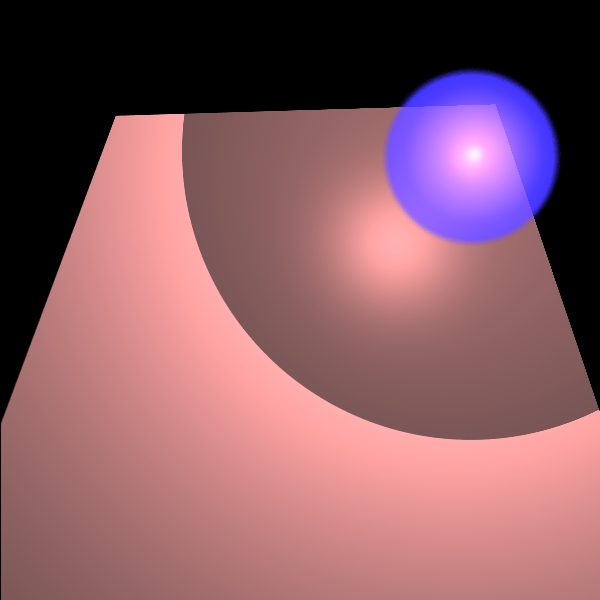
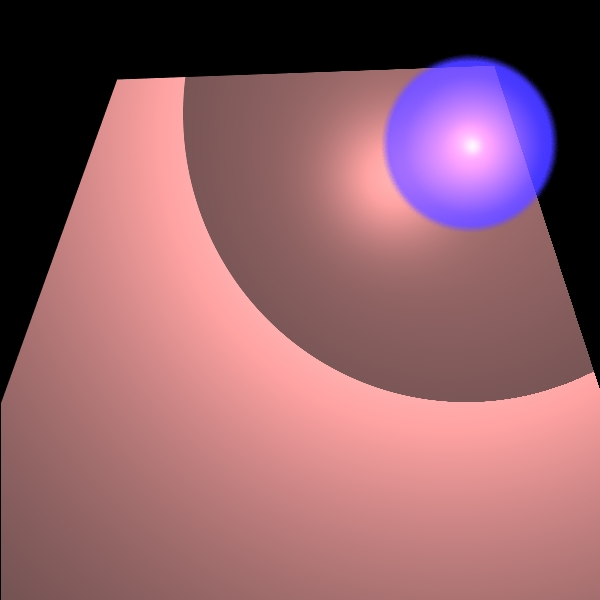
start stage 8 start scene

Changed region(s): [[0.0, 0.09, 1.0, 0.75]]

diff --git a/UnitTests/UnitTests/DepthOfFieldTest.java b/UnitTests/UnitTests/DepthOfFieldTest.java
@@ -72,36 +72,66 @@ public class DepthOfFieldTest {
     @Test
     public void depthOfFieldFullImage() {
         Scene scene = new Scene("Test scene");
-        scene.setCamera(new Camera(new Point3D(0, -1000, -1000), new Vector(0, 1, 1), new Vector(0, -1, 1),
-                1050, 12, 9, false));
+        scene.setCamera(new Camera(new Point3D(0, -120, -1000), new Vector(0, 0.05, 1), new Vector(0, -1, 0.05),
+                7000, 8, 5, true));
         scene.setDistance(1000);
         scene.setBackground(Color.BLACK);
         scene.setAmbientLight(new AmbientLight(Color.BLACK, 0.15));
 
+        Plane myPlane =  new Plane(new Color(25,0,51), new Material(0.1, 0, 60,0,0.9),
+                new Point3D(0,50,0),new Vector(0,1,0));
+        Tube MyTube = new Tube(new Color(150,150,150), new Material(0.5, 0.5, 60,0,0),//
+                100,new Ray(new Point3D(0,-50,500000),new Vector(1,0,0)));
+
         Geometries table  = new Geometries(
                 //plate of the table
-                new Polygon(new Color(new Color(java.awt.Color.GREEN)), new Material(0.5, 0.5, 60,0.5,0), //
-                        new Point3D(-100,0,-100), new Point3D(100,0,-100), new Point3D(100,0,100),//
-                        new Point3D(-100,0,100)),
+                /*new Polygon(new Color(76,0,153), new Material(0.5, 0.5, 60,0,0), //
+                        new Point3D(-50,0,100), new Point3D(50,0,100), new Point3D(50,0,150),//
+                        new Point3D(-50,0,150)),*/
+                new Cylinder(new Color(153,76,0), new Material(0.5, 0.5, 60,0.5,0),//
+                        65,new Ray(new Point3D(0,0,175),new Vector(0,1,0)), 2),
 
                 //legs of the table
-                new Cylinder(new Color(new Color(java.awt.Color.GREEN)), new Material(0.5, 0.5, 60,0.5,0),//
-                        10,new Ray(new Point3D(80,0,-80),new Vector(0,1,0)), 50),
-                new Cylinder(new Color(new Color(java.awt.Color.GREEN)), new Material(0.5, 0.5, 60,0.5,0),//
-                        10,new Ray(new Point3D(-80,0,-80),new Vector(0,1,0)), 50),
-                new Cylinder(new Color(new Color(java.awt.Color.GREEN)), new Material(0.5, 0.5, 60,0.5,0),//
-                        10,new Ray(new Point3D(80,0,80),new Vector(0,1,0)), 50),
-                new Cylinder(new Color(new Color(java.awt.Color.GREEN)), new Material(0.5, 0.5, 60,0.5,0),//
-                        10,new Ray(new Point3D(-80,0,80),new Vector(0,1,0)), 50));
+                new Cylinder(new Color(153,76,0), new Material(0.5, 0.5, 60,0.5,0),//
+                        1,new Ray(new Point3D(41,0,160),new Vector(0,1,0)), 60),
+                new Cylinder(new Color(153,76,0), new Material(0.5, 0.5, 60,0.5,0),//
+                        1,new Ray(new Point3D(-41,0,160),new Vector(0,1,0)), 60),
+                new Cylinder(new Color(153,76,0), new Material(0.5, 0.5, 60,0.5,0),//
+                        1,new Ray(new Point3D(39,0,190),new Vector(0,1,0)), 60),
+                new Cylinder(new Color(153,76,0), new Material(0.5, 0.5, 60,0.5,0),//
+                        1,new Ray(new Point3D(-39,0,190),new Vector(0,1,0)), 60));
 
-        Geometries bottle = new Geometries(new Cylinder(new Color(new Color(java.awt.Color.RED)), new Material(0.5, 0.5, 60,0.5,0),
-                10,new Ray(new Point3D(80,0,80),new Vector(0,-1,0)), 25),
-                new Cylinder(new Color(new Color(java.awt.Color.RED)), new Material(0.5, 0.5, 60,0.5,0),
-                        2,new Ray(new Point3D(80,-35,80),new Vector(0,-1,0)), 10),
-                new Sphere(new Color(new Color(java.awt.Color.RED)), new Material(0.5, 0.5, 60,0.5,0),
-                        10,new Point3D(80,-25,80)));
+        Geometries bottle = new Geometries(
+                new Cylinder(new Color(153,0,0), new Material(0.5, 0.5, 60,0.5,0),
+                10,new Ray(new Point3D(10,0,175),new Vector(0,-1,0)), 25),
+                new Cylinder(new Color(153,0,0), new Material(0.5, 0.5, 60,0.5,0),
+                        2,new Ray(new Point3D(10,-35,175),new Vector(0,-1,0)), 10),
+                new Sphere(new Color(153,0,0), new Material(0.5, 0.5, 60,0.5,0),
+                        10,new Point3D(10,-25,175)));
 
-        scene.addGeometries(table, bottle);
+        Geometries KiddushCup = new Geometries(
+                new Cylinder(new Color(64,64,64), new Material(0.5, 0.5, 60,0.5,0),
+                6,new Ray(new Point3D(-15,0,175),new Vector(0,-1,0)), 2),
+                new Cylinder(new Color(64,64,64), new Material(0.5, 0.5, 60,0.5,0),
+                        1,new Ray(new Point3D(-15,-2,175),new Vector(0,-1,0)), 5),
+                new Cylinder(new Color(64,64,64), new Material(0.5, 0.5, 60,0.5,0),
+                        6,new Ray(new Point3D(-15,-13,175),new Vector(0,-1,0)), 10),
+                new Sphere(new Color(64,64,64), new Material(0.5, 0.5, 60,0.5,0),
+                        6,new Point3D(-15,-13,175)));
+
+        Geometries balls = new Geometries(
+                new Sphere(new Color(120,0,0), new Material(0, 0, 0,0,1),
+                        150,new Point3D(0,-100,6000))/*,
+                new Sphere(new Color(0,0,150), new Material(0.2, 0.3, 60,0.0,0.5),
+                        20,new Point3D(-65,30,80))*/);
+
+        Geometries cylinders = new Geometries(
+                new Cylinder(new Color(53,0,26), new Material(0.2, 0.1, 60,0.7,0),
+                        10,new Ray(new Point3D(-100,-50,250),new Vector(0,-1,-0.3)), 40)
+                /*,new Cylinder(new Color(64,64,64), new Material(0.5, 0.5, 60,0.5,0),
+                        30,new Ray(new Point3D(-15,-13,400),new Vector(0,-1,0)), 10)*/);
+
+        scene.addGeometries(table, bottle, myPlane, KiddushCup , balls, /*cylinders,*/ MyTube);
 
 
         scene.addLights(new SpotLight(new Color(700, 400, 400), //
